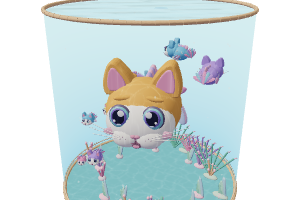
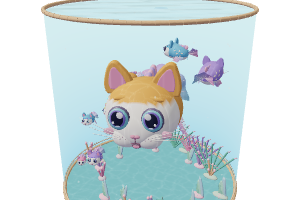
Sculpt seamless plush catfish and flowing pearl fins

diff --git a/public/aquarium-fish.js b/public/aquarium-fish.js
@@ -1,4 +1,5 @@
 import * as THREE from "three";
+import { mergeVertices } from "three/addons/utils/BufferGeometryUtils.js";
 import { part } from "./bikini-scenery.js";
 import { line as lineGeometry } from "./fantasy-scenery.js";
 import { batchModelSteps } from "./model-batching.js";
@@ -30,6 +31,7 @@ function soft(g, color, x, y, z, sx, sy, sz, polished = false) {
   const p = part(g, "sphere", color, x, y, z, sx, sy, sz);
   p.geometry = sx > 0.6 || polished ? round : smallRound;
   if (polished) {
+    p.position.z += 0.1;
     if (!glossy.has(color)) {
       const m = p.material.clone();
       m.roughness = 0.16;
@@ -50,22 +52,180 @@ function ear(g, color, x, y, z, sx, sy, sz) {
     s.quadraticCurveTo(0.55, -0.05, 0.48, -0.4);
     s.quadraticCurveTo(0, -0.56, -0.47, -0.4);
     earGeometry = new THREE.ExtrudeGeometry(s, {
-      depth: 0.18,
+      depth: 0.07,
       bevelEnabled: true,
-      bevelThickness: 0.1,
-      bevelSize: 0.085,
-      bevelSegments: 3,
+      bevelThickness: 0.045,
+      bevelSize: 0.065,
+      bevelSegments: 4,
       steps: 1,
       curveSegments: 10,
     });
-    earGeometry.translate(0, 0, -0.09);
+    earGeometry.translate(0, 0, -0.035);
     earGeometry.computeVertexNormals();
+    const unindexed = earGeometry;
+    earGeometry = mergeVertices(unindexed, 1e-5);
+    unindexed.dispose();
     earGeometry.userData.sharedScenery = true;
   }
   const p = part(g, "sphere", color, x, y, z, sx, sy, sz);
   p.geometry = earGeometry;
   return p;
 }
+// A single continuous, rounded surface avoids a pinched seam between the
+// kitten's head and belly. Coat markings live on this surface, not glued beads.
+function plushBody(g) {
+  const profile = new THREE.CatmullRomCurve3(
+    [
+      [0, -1.35, -0.03],
+      [0.48, -1.15, -0.03],
+      [0.8, -0.75, -0.02],
+      [0.94, -0.3, 0.02],
+      [0.97, 0.25, 0.13],
+      [0.94, 0.65, 0.18],
+      [0.82, 0.96, 0.15],
+      [0.62, 1.21, 0.1],
+      [0.3, 1.4, 0.03],
+      [0, 1.46, 0],
+    ].map((p) => new THREE.Vector3(...p)),
+    false,
+    "centripetal",
+  );
+  const positions = [],
+    colors = [],
+    indices = [],
+    rings = 48,
+    sides = 40,
+    c = new THREE.Color();
+  const spots = [
+    [-0.83, 0.18, 0.085],
+    [-0.55, 0.39, 0.06],
+    [-0.35, 0.17, 0.07],
+    [-0.66, -0.12, 0.065],
+    [-0.14, 0.42, 0.055],
+  ];
+  for (let j = 0; j <= rings; j++) {
+    const p = profile.getPoint(j / rings),
+      r = Math.max(0, p.x);
+    for (let k = 0; k <= sides; k++) {
+      const a = (k / sides) * Math.PI * 2,
+        x = Math.cos(a) * r,
+        y = p.z + Math.sin(a) * r * 0.88,
+        z = p.y;
+      positions.push(x, y, z);
+      const white =
+        (z > 0.63 && y < 0.69 - Math.abs(x) * 0.13) || (y < -0.29 && z < 1.1);
+      const freckle =
+        Math.abs(x) > 0.55 &&
+        spots.some(([sz, sy, sr]) => (z - sz) ** 2 + (y - sy) ** 2 < sr ** 2);
+      c.set(white ? 0xfffbf3 : freckle ? 0xffeddb : COAT);
+      colors.push(c.r, c.g, c.b);
+      if (j < rings && k < sides) {
+        const n = j * (sides + 1) + k;
+        indices.push(
+          n,
+          n + 1,
+          n + sides + 1,
+          n + 1,
+          n + sides + 2,
+          n + sides + 1,
+        );
+      }
+    }
+  }
+  const geometry = new THREE.BufferGeometry();
+  geometry.setAttribute(
+    "position",
+    new THREE.Float32BufferAttribute(positions, 3),
+  );
+  geometry.setAttribute("color", new THREE.Float32BufferAttribute(colors, 3));
+  geometry.setIndex(indices);
+  geometry.computeVertexNormals();
+  const mesh = part(g, "sphere", 0xffffff, 0, 0, 0);
+  mesh.geometry = geometry;
+  mesh.material = mesh.material.clone();
+  mesh.material.vertexColors = true;
+  mesh.name = "Continuous plush kitten-fish body";
+}
+function fanPoint(angle, t, tail, face = 0) {
+  const radius = (tail ? 0.85 : 0.8) * (1 + 0.075 * Math.cos(angle * 7)) * t,
+    thickness = face * 0.035 * Math.sin(t * Math.PI);
+  return tail
+    ? [
+        Math.sin(angle) * radius,
+        (Math.cos(angle) - 0.2) * radius,
+        -0.65 * t + thickness,
+      ]
+    : [thickness, -Math.cos(angle) * radius, -Math.sin(angle) * radius];
+}
+function flowingFan(g, tail = false) {
+  const positions = [],
+    colors = [],
+    indices = [],
+    rings = 10,
+    sides = 32,
+    stride = (rings + 1) * (sides + 1),
+    start = tail ? -1.8 : -0.65,
+    end = tail ? 1.8 : 1.25;
+  const palette = [0xf6a4d0, 0xb9a6ef, 0x8ed4ef].map((c) => new THREE.Color(c)),
+    color = new THREE.Color(),
+    cream = new THREE.Color(0xffe9f4);
+  for (let face = 0; face < 2; face++)
+    for (let j = 0; j <= rings; j++)
+      for (let k = 0; k <= sides; k++) {
+        const t = j / rings,
+          u = k / sides,
+          a = start + (end - start) * u;
+        positions.push(...fanPoint(a, t, tail, face === 0 ? 1 : -1));
+        const v = u * 2,
+          lo = Math.min(1, Math.floor(v));
+        color
+          .copy(palette[lo])
+          .lerp(palette[lo + 1], v - lo)
+          .lerp(cream, (1 - t) * 0.75);
+        colors.push(color.r, color.g, color.b);
+        if (j < rings && k < sides) {
+          const n = face * stride + j * (sides + 1) + k,
+            b = n + 1,
+            c = n + sides + 1,
+            d = c + 1;
+          if ((face === 0) !== !tail) indices.push(n, b, c, b, d, c);
+          else indices.push(n, c, b, b, c, d);
+        }
+      }
+  for (const k of [0, sides])
+    for (let j = 0; j < rings; j++) {
+      const a = j * (sides + 1) + k,
+        b = a + sides + 1;
+      indices.push(a, b, a + stride, b, b + stride, a + stride);
+    }
+  const geometry = new THREE.BufferGeometry();
+  geometry.setAttribute(
+    "position",
+    new THREE.Float32BufferAttribute(positions, 3),
+  );
+  geometry.setAttribute("color", new THREE.Float32BufferAttribute(colors, 3));
+  geometry.setIndex(indices);
+  geometry.computeVertexNormals();
+  const mesh = part(g, "sphere", 0xffffff, 0, 0, 0);
+  mesh.geometry = geometry;
+  mesh.material = mesh.material.clone();
+  mesh.material.vertexColors = true;
+  mesh.name = tail
+    ? "Scalloped flowing tail fan"
+    : "Continuous pearly side fin";
+  for (let i = 0; i < 8; i++) {
+    const a = start + ((end - start) * (i + 0.25)) / 8;
+    for (const face of [-1, 1]) {
+      const mid = fanPoint(a, 0.5, tail),
+        tip = fanPoint(a, 0.98, tail);
+      mid[tail ? 2 : 0] += face * 0.042;
+      tip[tail ? 2 : 0] += face * 0.018;
+      line(g, [0, 0, 0], mid, 0xffeaf7, 0.008);
+      line(g, mid, tip, 0xffeaf7, 0.006);
+    }
+  }
+}
+
 function* bake(g) {
   const b = yield* batchModelSteps(g, { combineColors: true });
   g.traverse((o) => {
@@ -86,20 +246,16 @@ function* fishTemplates() {
   const body = new THREE.Group(),
     tail = new THREE.Group(),
     fin = new THREE.Group();
-  // Round belly, a generous kitten head, a coloured hood and pillowy white cheeks.
-  soft(body, COAT, 0, -0.02, -0.38, 0.91, 0.78, 0.94);
-  soft(body, 0xfff7e8, 0, -0.3, -0.13, 0.78, 0.56, 0.82);
-  soft(body, COAT, 0, 0.2, 0.43, 0.96, 0.83, 0.84);
-  soft(body, 0xfffbf3, 0, 0.06, 0.85, 0.86, 0.66, 0.55);
+  plushBody(body);
   for (const sign of [-1, 1]) {
-    const outer = ear(body, COAT, sign * 0.62, 0.98, 0.39, 0.66, 0.62, 1.35);
+    const outer = ear(body, COAT, sign * 0.62, 0.98, 0.45, 0.66, 0.62, 1.35);
     outer.rotation.z = sign * -0.22;
     const inner = ear(
       body,
       0xf5a7c8,
       sign * 0.62,
       1.005,
-      0.65,
+      0.58,
       0.39,
       0.42,
       0.24,
@@ -189,22 +345,7 @@ function* fishTemplates() {
   line(body, [0, -0.12, 1.46], [0, -0.2, 1.447], 0x936780, 0.012);
   for (const sign of [-1, 1])
     line(body, [0, -0.2, 1.447], [sign * 0.11, -0.235, 1.43], 0x936780, 0.012);
-  // Cream freckles and a soft scalloped back crest.
-  for (let i = 0; i < 14; i++) {
-    const a = i * 2.399,
-      y = 0.05 + Math.sin(a) * 0.44,
-      z = -0.55 + Math.cos(a) * 0.45;
-    soft(
-      body,
-      i % 2 ? 0xffeddb : 0xece5ff,
-      (i % 2 ? 1 : -1) * 0.854,
-      y,
-      z,
-      0.018,
-      0.055,
-      0.062,
-    );
-  }
+  // A scalloped dorsal crest complements the continuous painted body.
   for (let i = 0; i < 5; i++) {
     const p = soft(
       body,
@@ -218,60 +359,8 @@ function* fishTemplates() {
     );
     p.rotation.x = -0.5;
   }
-  // A broad, ruffled fan with seven pearly petals and visible fin rays.
-  for (let i = 0; i < 7; i++) {
-    const a = -1.18 + i * 0.393;
-    const p = soft(
-      tail,
-      [0xf9a8d4, 0xc2a4ee, 0x8ed5ee][i % 3],
-      Math.sin(a) * 0.42,
-      Math.cos(a) * 0.32 - 0.17,
-      -0.35,
-      0.19,
-      0.57,
-      0.07,
-    );
-    p.rotation.z = -a;
-    p.rotation.x = 0.36;
-    line(
-      tail,
-      [0, 0, 0.02],
-      [Math.sin(a) * 0.54, Math.cos(a) * 0.68 - 0.18, -0.58],
-      0xffe9f8,
-      0.012,
-    );
-    soft(
-      tail,
-      0xffe9f8,
-      Math.sin(a) * 0.58,
-      Math.cos(a) * 0.7 - 0.19,
-      -0.6,
-      0.034,
-      0.043,
-      0.022,
-    );
-  }
-  for (let i = 0; i < 4; i++) {
-    const p = soft(
-      fin,
-      i % 2 ? 0xf6b6d9 : 0xb9caef,
-      0,
-      -0.1 - i * 0.06,
-      -i * 0.115,
-      0.13,
-      0.38,
-      0.06,
-    );
-    p.rotation.x = -0.5;
-    p.rotation.z = 0.3;
-    line(
-      fin,
-      [0, 0, 0.04],
-      [0.11, -0.42 - i * 0.06, -0.12 - i * 0.1],
-      0xffedf7,
-      0.008,
-    );
-  }
+  flowingFan(tail, true);
+  flowingFan(fin, false);
   return (templates = {
     body: yield* bake(body),
     tail: yield* bake(tail),
@@ -354,7 +443,11 @@ export function* aquariumShoalSteps(tank, clock) {
         ["rightFin", 1],
       ]) {
         local.position.set(sign * 0.8, -0.03, -0.25);
-        local.rotation.set(0.1, 0, sign * (0.4 + (reduced ? 0 : f.fin)));
+        local.rotation.set(
+          0.1,
+          sign * 0.5,
+          sign * (0.4 + (reduced ? 0 : f.fin)),
+        );
         local.updateMatrix();
         matrix.multiplyMatrices(dummy.matrix, local.matrix);
         for (const m of sets[key]) m.setMatrixAt(i, matrix);

diff --git a/public/index.html b/public/index.html
@@ -681,6 +681,6 @@
       </div>
     </dialog>
     <div id="toast" role="status" aria-live="polite" hidden></div>
-    <script type="module" src="./dist/app.js?v=2b0291fa0db5a832"></script>
+    <script type="module" src="./dist/app.js?v=0176010caad62ca4"></script>
   </body>
 </html>

diff --git a/docs/cat-aquarium.md b/docs/cat-aquarium.md
@@ -17,7 +17,7 @@ no new account, currency, inventory or save format is introduced.
   the actual game models rather than a separate concept image.
 - Fifty cat-headed fish, with five especially large fish and small companions:
   round bellies, kitten ears, white muzzle/cheeks, whiskers, layered shiny eyes,
-  colourful coats, broad petal tails and individually moving fins. Fish faces
+  colourful coats, broad flowing tails and individually moving fins. Fish faces
   retain white cheeks and bright eyes independently of their instance colour.
 - The four new locals are ordinary cats built from the approved existing rigs.
   Existing Chichi/adoption geometry, eyes, coats and fur are unchanged.
@@ -68,6 +68,13 @@ batched; bubble instances and existing shared water/caustic shaders are reused.
 Far views use the existing separate distant layer. No ray tracing, scene-copy
 render targets, external fish textures or per-frame geometry rebuilds are used.
 
+A second close-up review replaced the overlapping head/body shells with one
+continuous plush surface, painted cream markings and thinner welded ears. The
+tail and side fins are closed scalloped fans with pearly colour gradients and
+fine rays. The five shared draws now use 27,065 vertices and 32,040 triangles,
+down from 29,506 vertices and 36,560 triangles. Front/profile renders of all five
+large fish verify clear eyes, whiskers, animated fins and stable reduced motion.
+
 The aquarium navigation uses exact long-segment wall checks. Adjacent A\* cells
 reuse the mask and orthogonal-corner checks, with a small analytic circular-tank
 check instead of testing every palace wall on every search edge.
@@ -77,6 +84,8 @@ Validation:
 - `npm test`: includes unchanged-biome snapshots, level gates, actual transformed
   fish vertices inside all tanks, clear entrance routes for three cat sizes,
   eight simultaneous visitors, receipt idempotence and repeated save/reloads.
+- The fish surface regression checks the full rounded silhouette, finite
+  normals, continuous fin gradients and shared geometry/draw budget.
 - `test/social-motion.test.mjs`: exact 37% threshold, separate silhouettes for
   three size pairings, continuous mount/ride/dismount, rigid back attachment,
   one random draw per encounter, safe cancellation and reduced motion.
@@ -86,8 +95,8 @@ Validation:
   and reload. Software WebGL results are functional evidence, not an iPhone FPS
   guarantee. Set `CHICHI_PLAYWRIGHT_MODULE`, `CHICHI_CHROMIUM` if needed.
 
-Verified on 18 October 2026 (Kyiv): the automated tests passed, the build
-and Worker deployment dry run passed. The private browser check also passed
+Local validation: all 427 automated tests passed, as did the build and Worker
+deployment dry run. The private browser check also passed
 actual touch drops resident→resident, Chichi→resident and resident→Chichi,
 fish-instance camera selection through glass, six simultaneous visitors,
 unchanged legacy aquarium-coaster visibility and exact significant save fields
